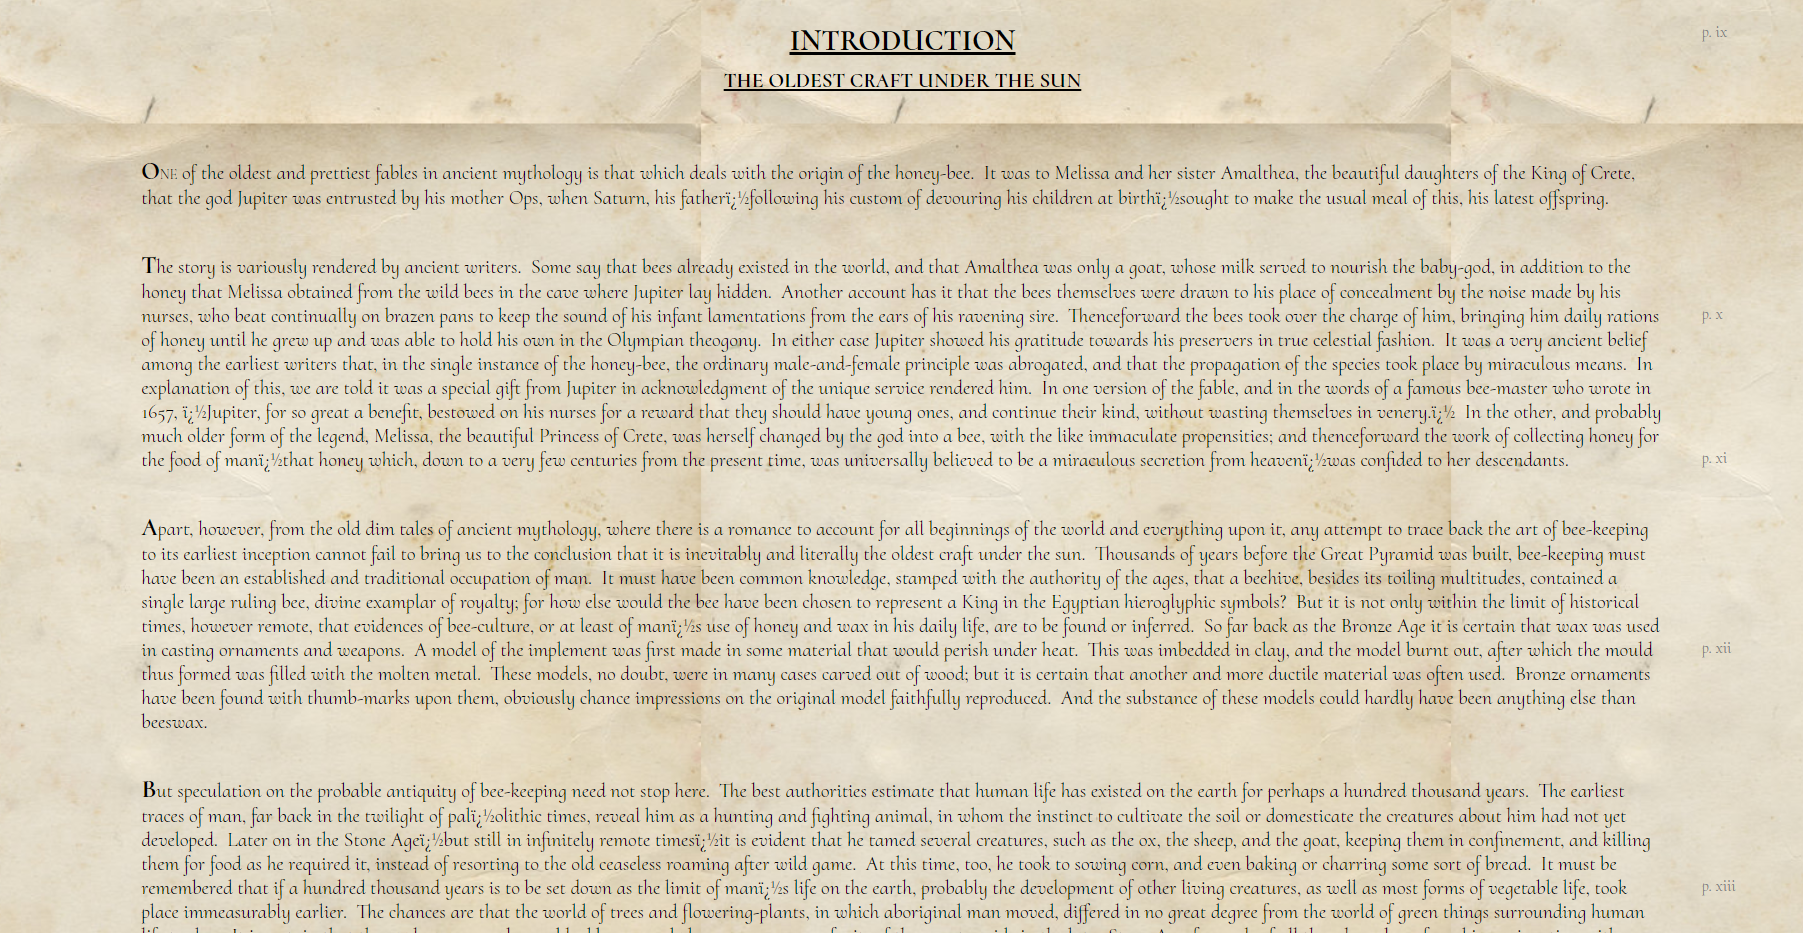
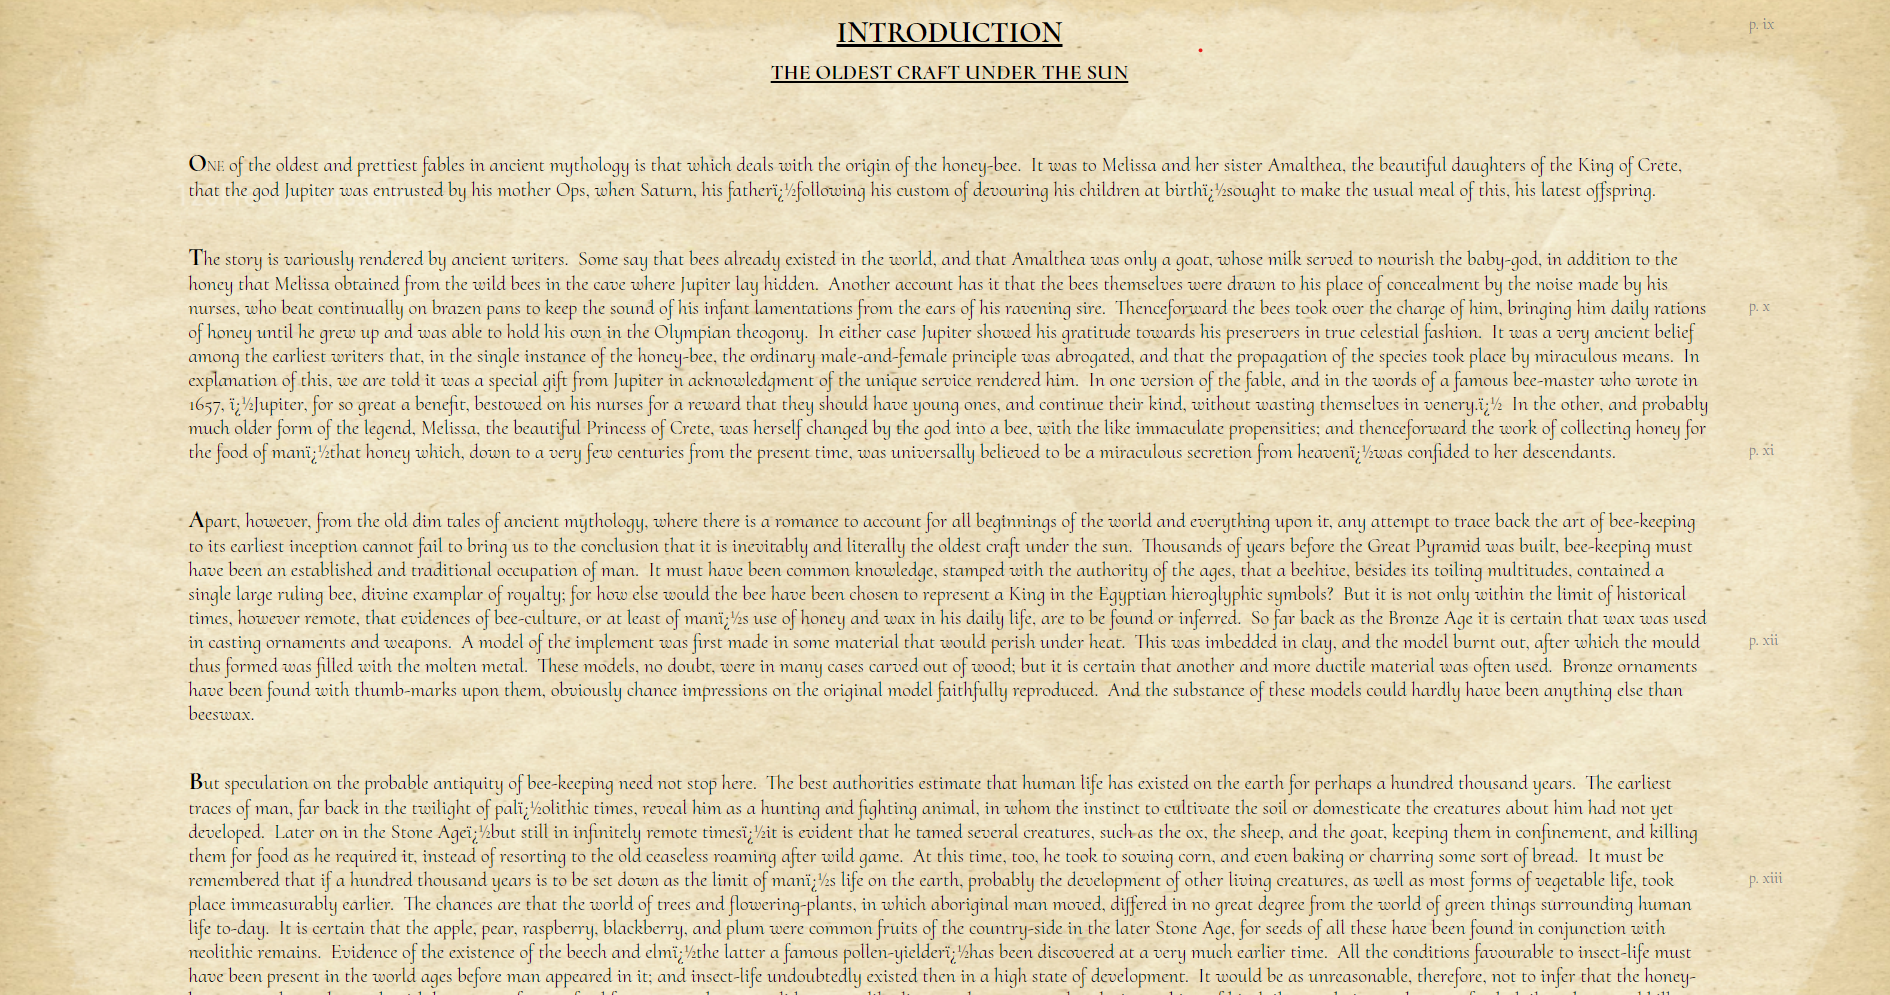
used better background pictures and updated screenshots and readme accordingly

diff --git a/homepage/good.css b/homepage/good.css
@@ -1,10 +1,10 @@
 @import url('https://fonts.googleapis.com/css2?family=Shippori+Mincho:wght@400;700&display=swap');
 body {
-    background-image: url("images/background.jpeg");
+    background-image: url("images/sky.jpg");
     background-size: cover; /*Taken from https://stackoverflow.com/questions/376253/stretch-and-scale-css-background*/
     background-attachment: fixed;
     font-family: 'Shippori Mincho', serif;
-    color: black
+    color: white;
 }
 
 h1, h2, h3 {
@@ -31,7 +31,7 @@ li.horizontal_nav a:hover {
 
 li.horizontal_nav a {
     display: block;
-    color: black;
+    color: white;
     text-align: center;
     padding: 14px 16px;
     text-decoration: none;

diff --git a/gutenberg/gutenberg.css b/gutenberg/gutenberg.css
@@ -1,5 +1,7 @@
 body {
-        background-image: url("old_paper_image.jpg");
+        background-image: url("old.jpg");
+        background-size: cover; /*Taken from https://stackoverflow.com/questions/376253/stretch-and-scale-css-background*/
+        background-attachment: fixed;
         font-family: 'Cormorant Upright', serif;
 }
 

diff --git a/README.md b/README.md
@@ -31,6 +31,8 @@ Paragraphs have margins on the top and bottom to give more seperation
 Made the first letter of each paragraph tag be bolded and bigger
 
 Images used:
+https://www.123freevectors.com/old-parchment-texture-background-126400/
+
 https://www.vexels.com/png-svg/preview/166383/html-programming-language-icon
 
 https://www.google.com/url?sa=i&url=https%3A%2F%2Fgithub.com%2FViglino%2Ficonicss&psig=AOvVaw0unAOIz3qcfub2pnL5HiCS&ust=1613963892698000&source=images&cd=vfe&ved=0CAIQjRxqFwoTCICHuZaC-u4CFQAAAAAdAAAAABAD
@@ -47,16 +49,13 @@ https://commons.wikimedia.org/wiki/File:Python.svg
 
 https://www.pinterest.ca/pin/255016397637139513/
 
-https://www.freevector.com/vector-sky-background
+https://www.jcbackings.com/gallery.php?type=qsearch&searchfor=CT-829&itemnumber=CT-829
 
 https://pngimg.com/image/73415
 
-https://www.iconfinder.com/icons/771370/
-
-circle_linkedin_logo_media_network_social_share_icon
+https://www.iconfinder.com/icons/771370/circle_linkedin_logo_media_network_social_share_icon
 
 Links used:
-https://stackoverflow.com/questions/14585101/old-paper-background-texture-with-just-css
 https://fonts.google.com/specimen/Cormorant+Upright?category=Serif&preview.text_type=custom&sidebar.open=true&selection.family=Cormorant+Upright:wght@400;700
 
 Collaborators:
